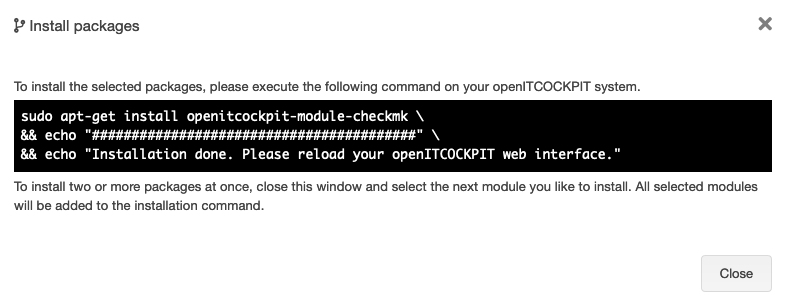
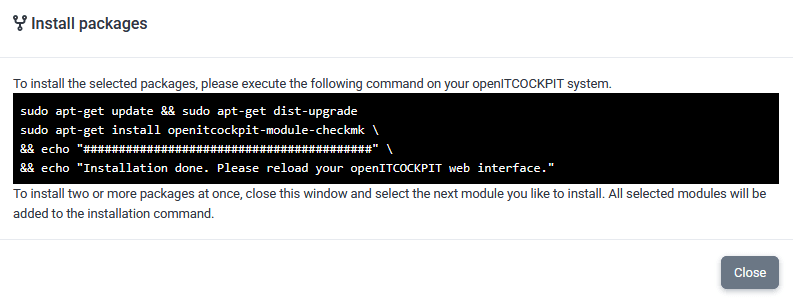
Replace screenshot with openITCOCKPIT 5

diff --git a/de/docs/beginners/monitoring-checkmk.md b/de/docs/beginners/monitoring-checkmk.md
@@ -50,7 +50,7 @@ Wie bereits angesprochen, nutzen wir den Checkmk Agenten um das Remote System zu
 
 Zuallererst müssen Sie den Checkmk Agenten von Ihrem openITCOCKPIT Server auf das Zielsystem kopieren:
 
-`scp /opt/openitc/check_mk/agents/check_mk_agent.linux root@172.16.166.103:/usr/local/bin/check_mk_agent`
+`scp /opt/openitc/check_mk/agents/check_mk_agent.linux root@172.16.166.179:/usr/local/bin/check_mk_agent`
 
 !!! tip "Alle Checkmk Agenten für die verschiedenen Betriebssysteme finden Sie hier"
     `/opt/openitc/check_mk/agents/`
@@ -137,7 +137,7 @@ abzufragen. Dazu können Sie das Programm `snmpwalk` nutzen.
 In diesem Beispiel fragen wie ein Ubuntu Linux, auf dem `snmpd` in der Version `2c` und der community `public` läuft ab.
 
 ```
-snmpwalk -v2c -c public 172.16.166.103
+snmpwalk -v2c -c public 172.16.166.179
 ```
 
 Sie sollten eine ähnliche Ausgabe wie diese sehen:
@@ -157,7 +157,7 @@ Wählen Sie die `Enable SNMP` Option aus.
 Das System wird Sie nach den benötigten SNMP Parametern befragen. Die SNMP Konfiguration wird pro Host gespeichert, Sie
 müssen diese Daten also nicht nochmals eingeben. Klicken Sie anschließend auf `Erkennung ausführen` um fortzufahren.
 
-![checkmk remote discovery](/images/checkmk-remote-discovery-4-3.png)
+![checkmk remote SNMP discovery](/images/checkmk-remote-snmp-discovery-4-3.png)
 
 
 Sobald der Erkennungsprozess vollendet ist, können Sie alle gewünschten Services, welche Sie überwachen möchten,
@@ -272,7 +272,7 @@ Sie können neben SNMP gleichzeitig den Checkmk Agenten nutzen.
 Dazu wählen Sie `Enable Checkmk agent`, als Datasource `Checkmk Agent` und `Enable SNMP`, sowie die SNMP Version und die
 Community.
 
-![checkmk remote discovery](/images/checkmk-remote-discovery-4-3.png)
+![checkmk mix agent and snmp](/images/checkmk-mix-agent-and-snmp.png)
 
 ## Eigene Regeln hinterlegen
 

diff --git a/en/docs/beginners/monitoring-checkmk.md b/en/docs/beginners/monitoring-checkmk.md
@@ -48,7 +48,7 @@ As already mentioned, we use the Checkmk agent for monitoring remote systems.
 
 To begin using this tool, you must first copy the Checkmk agent from your openITCOCKPIT server to the target system:
 
-`scp /opt/openitc/check_mk/agents/check_mk_agent.linux root@172.16.166.103:/usr/local/bin/check_mk_agent`
+`scp /opt/openitc/check_mk/agents/check_mk_agent.linux root@172.16.166.179:/usr/local/bin/check_mk_agent`
 
 !!! tip
     "All Checkmk agents for the various operating systems can be found here"
@@ -135,7 +135,7 @@ The program `snmpwalk` can be used for this.
 In this example we will query an Ubuntu Linux machine running `snmpd` version `2c` and the community `public`.
 
 ```
-snmpwalk -v2c -c public 172.16.166.103
+snmpwalk -v2c -c public 172.16.166.179
 ```
 
 You should then see output similar to this:
@@ -154,7 +154,7 @@ Select the `Checkmk detection` option in the context menu for the host system.
 Select the `Enable SNMP` option. The system will ask you for the required SNMP parameters. The SNMP configuration is
 saved on a per host basis, so you won't have to enter this data again. Then click Run detection to continue.
 
-![checkmk remote discovery](/images/checkmk-remote-discovery-4-3.png)
+![checkmk remote SNMP discovery](/images/checkmk-remote-snmp-discovery-4-3.png)
 
 Once the discovery process has completed, you can select any services you would like to monitor. Click `Next` to
 continue.
@@ -270,7 +270,7 @@ You can use both SNMP and the Checkmk agent at the same time without issue. To d
 select `Checkmk Agent` as the data soucre and Enable `Enable SNMP` as well as the SNMP version and your desired
 community.
 
-![checkmk remote discovery](/images/checkmk-remote-discovery-4-3.png)
+![checkmk mix agent and snmp](/images/checkmk-mix-agent-and-snmp.png)
 
 ## Define custom rules
 
